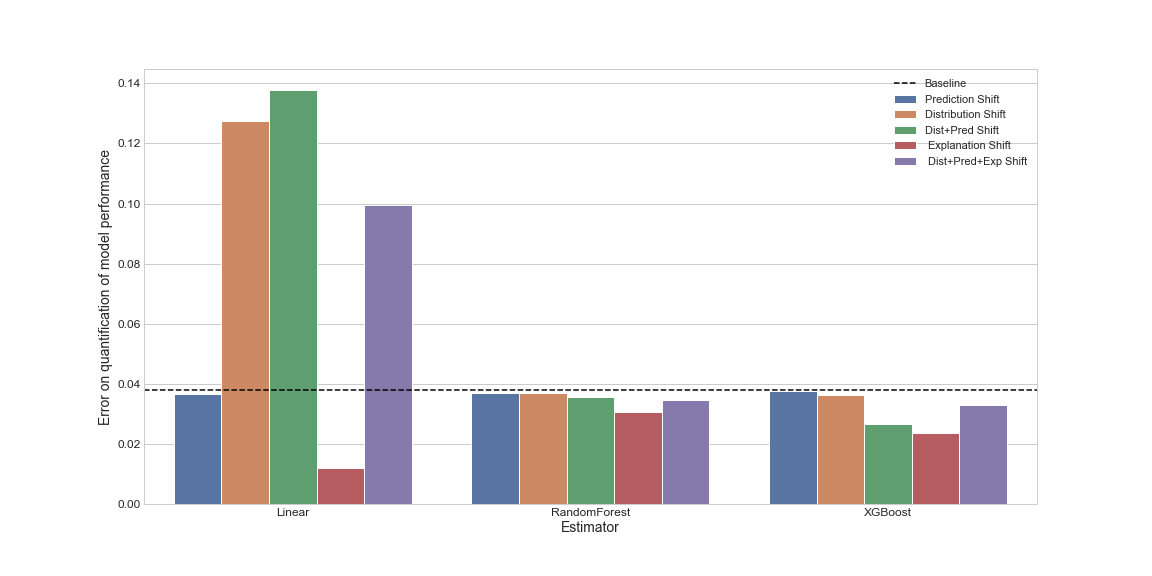
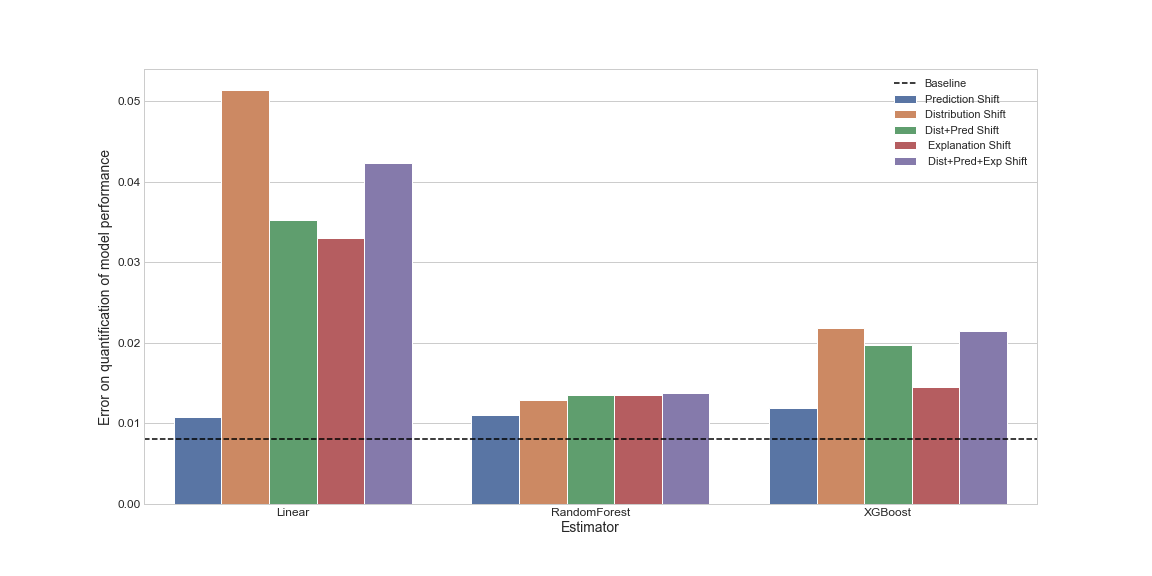
mobitliy

diff --git a/folks/samplingOOD.py b/folks/samplingOOD.py
@@ -111,12 +111,12 @@ states = [
 data_source = ACSDataSource(survey_year="2018", horizon="1-Year", survey="person")
 
 
-ca_features, ca_labels, ca_group = ACSMobility.df_to_numpy(ca_data)
-mi_features, mi_labels, mi_group = ACSMobility.df_to_numpy(mi_data)
+ca_features, ca_labels, ca_group = ACSTravelTime.df_to_numpy(ca_data)
+mi_features, mi_labels, mi_group = ACSTravelTime.df_to_numpy(mi_data)
 
 ## Conver to DF
-ca_features = pd.DataFrame(ca_features, columns=ACSMobility.features)
-mi_features = pd.DataFrame(mi_features, columns=ACSMobility.features)
+ca_features = pd.DataFrame(ca_features, columns=ACSTravelTime.features)
+mi_features = pd.DataFrame(mi_features, columns=ACSTravelTime.features)
 
 # Modeling
 model = XGBClassifier(verbosity=0, silent=True, use_label_encoder=False, njobs=1)
@@ -211,8 +211,8 @@ for state in tqdm(states, desc="States", position=0):
 
     # Load and process data
     tx_data = data_source.get_data(states=["HI"], download=True)
-    tx_features, tx_labels, tx_group = ACSMobility.df_to_numpy(tx_data)
-    tx_features = pd.DataFrame(tx_features, columns=ACSMobility.features)
+    tx_features, tx_labels, tx_group = ACSTravelTime.df_to_numpy(tx_data)
+    tx_features = pd.DataFrame(tx_features, columns=ACSTravelTime.features)
 
     # Lets add the target to ease the sampling
     tx_full = tx_features.copy()

diff --git a/folks/samplingOODfairness.py b/folks/samplingOODfairness.py
@@ -109,12 +109,12 @@ states = [
 data_source = ACSDataSource(survey_year="2018", horizon="1-Year", survey="person")
 
 
-ca_features, ca_labels, ca_group = ACSMobility.df_to_numpy(ca_data)
-mi_features, mi_labels, mi_group = ACSMobility.df_to_numpy(mi_data)
+ca_features, ca_labels, ca_group = ACSTravelTime.df_to_numpy(ca_data)
+mi_features, mi_labels, mi_group = ACSTravelTime.df_to_numpy(mi_data)
 
 ## Conver to DF
-ca_features = pd.DataFrame(ca_features, columns=ACSMobility.features)
-mi_features = pd.DataFrame(mi_features, columns=ACSMobility.features)
+ca_features = pd.DataFrame(ca_features, columns=ACSTravelTime.features)
+mi_features = pd.DataFrame(mi_features, columns=ACSTravelTime.features)
 
 # Modeling
 model = XGBClassifier(verbosity=0, silent=True, use_label_encoder=False, njobs=1)
@@ -256,8 +256,8 @@ for state in tqdm(states, desc="States", position=0):
 
     # Load and process data
     tx_data = data_source.get_data(states=["HI"], download=True)
-    tx_features, tx_labels, tx_group = ACSMobility.df_to_numpy(tx_data)
-    tx_features = pd.DataFrame(tx_features, columns=ACSMobility.features)
+    tx_features, tx_labels, tx_group = ACSTravelTime.df_to_numpy(tx_data)
+    tx_features = pd.DataFrame(tx_features, columns=ACSTravelTime.features)
 
     # Lets add the target to ease the sampling
     tx_full = tx_features.copy()

diff --git a/folks/results/barplots.py b/folks/results/barplots.py
@@ -14,7 +14,7 @@ rcParams["figure.figsize"] = 16, 8
 rcParams.update({"font.size": 22})
 
 # %%
-df = pd.read_csv("folks/results/all_results_income.csv")
+df = pd.read_csv("folks/results/all_results_mobility.csv")
 
 df.data = df.data.replace("Only Data", "Distribution Shift")
 df.data = df.data.replace("Data+Target", "Dist+Pred Shift")
